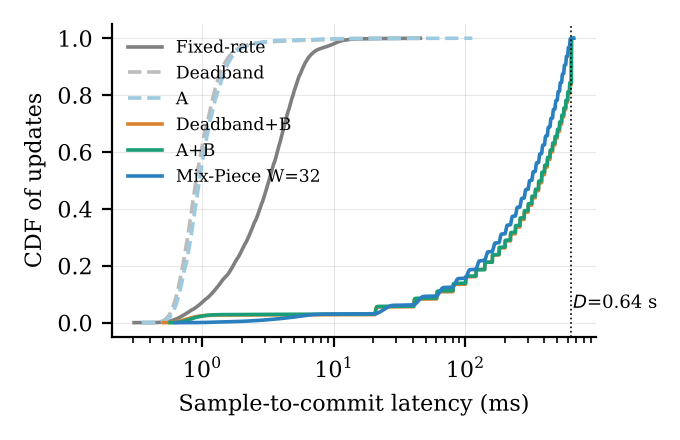
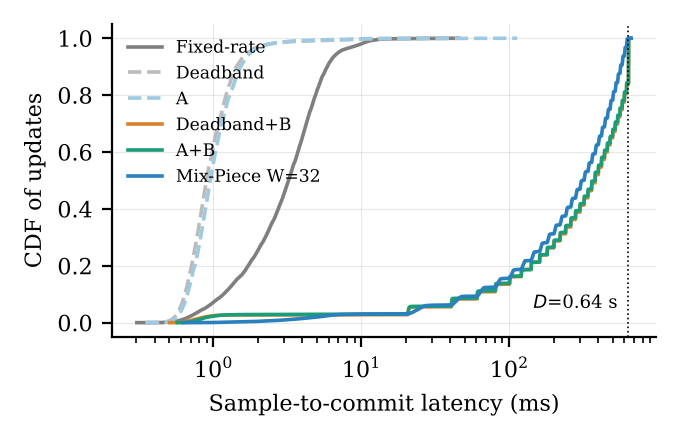
Fix latency figure label
Claude-Session: https://claude.ai/code/session_0165Sa1RfKaRB3UH2Vd6KPLv

diff --git a/live/fig_live.py b/live/fig_live.py
@@ -14,6 +14,6 @@ for s in ['FR','DB','A','DB+B','A+B','MP']:
     lat = np.sort(np.concatenate(lat)); y = np.arange(1, len(lat) + 1) / len(lat)
     ax.plot(np.maximum(lat, 0.1), y, color=C[s], label=LBL[s], lw=1.3, ls='--' if s in ('DB','A') else '-')
 ax.set_xscale('log'); ax.set_xlabel('Sample-to-commit latency (ms)'); ax.set_ylabel('CDF of updates')
-ax.axvline(640, color='k', lw=0.6, ls=':'); ax.text(660, 0.05, '$D$=0.64 s', fontsize=6.5)
+ax.axvline(640, color='k', lw=0.6, ls=':'); ax.text(600, 0.05, '$D$=0.64 s ', fontsize=6.5, ha='right')
 ax.legend(frameon=False, fontsize=6.2, loc='upper left'); ax.grid(alpha=0.3, lw=0.4)
 plt.tight_layout(); plt.savefig('fig_live_latency.pdf'); plt.savefig('fig_live_latency.png', dpi=200); print('ok')
